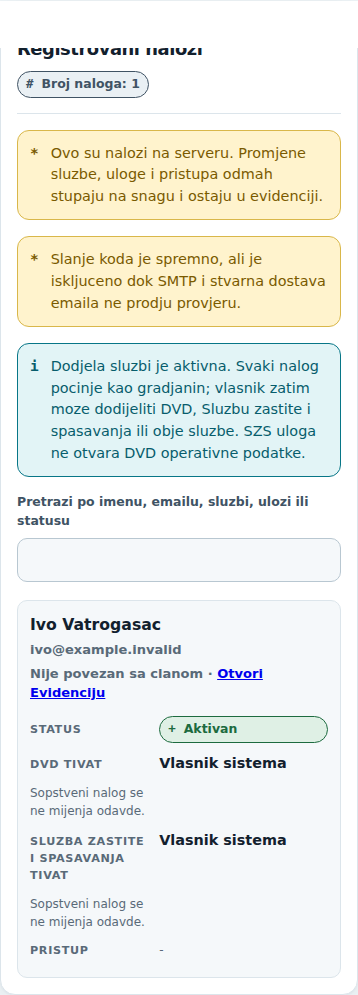
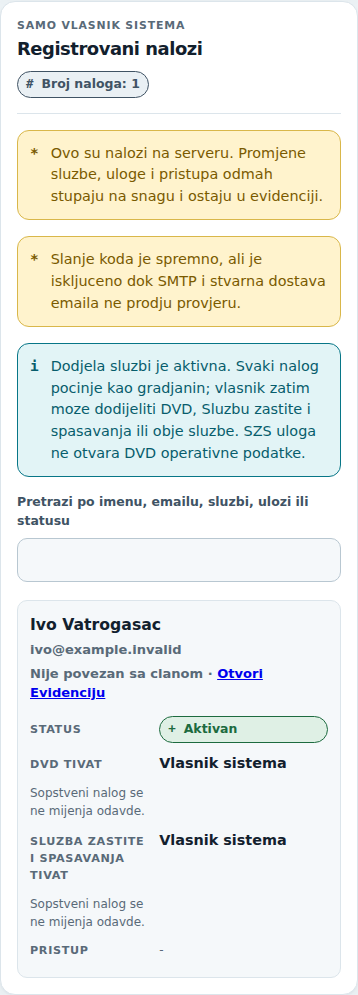
Capture the owner Accounts panel whole, heading included (review #74 re-review)
The re-review found the only remaining issue: the owner Accounts screenshot began
halfway through the "Registrovani nalozi" heading. The panel is taller than an
844px phone and sits under a sticky masthead, so `scrollIntoViewIfNeeded()` +
element screenshot clipped its top under that fixed bar.

Capture it the way the reviewer suggested: hide the fixed chrome (the sticky
masthead and the bottom nav) and give the page a taller viewport at the SAME
390px phone width, so the whole directory - full heading and card top included -
is captured in one clean phone-width panel. A `toBeInViewport()` check on the
heading guards against the clip regressing. Only this screenshot and its spec
change; the other five images are byte-identical.

Claude-Session: https://claude.ai/code/session_01RQBcnBwKoSZU8NsR5ytEuJ

Changed region(s): [[0.0, 0.0, 0.5223, 0.0623], [0.9832, 0.0, 1.0, 0.0312], [0.5223, 0.0312, 0.5531, 0.0623]]

diff --git a/e2e/p6-shape-screenshots.spec.ts b/e2e/p6-shape-screenshots.spec.ts
@@ -102,12 +102,17 @@ test.describe('@screenshots P6 account shapes (mobile)', () => {
     const cells = page.locator('.account-service-cell');
     await expect(cells).toHaveCount(2);
     await expect(cells.nth(1)).toContainText('Vlasnik sistema');
-    // The directory is below the fold; capture the panel itself so the columns
-    // are shown in full. Hide the fixed bottom nav for this one shot so it does
-    // not cut across the tall panel (it is not the subject here).
-    await page.addStyleTag({ content: '.station-rail { display: none !important; }' });
-    await page.locator('.account-directory').scrollIntoViewIfNeeded();
-    await page.locator('.account-directory').screenshot({ path: `${DIR}/1d-owner-nalozi-both-columns.png` });
+    // The directory panel is taller than a phone and sits under a sticky top bar
+    // and a fixed bottom nav. To capture it whole - heading and card top included,
+    // nothing clipped - hide that fixed chrome and give the page a taller viewport
+    // at the SAME 390px phone width, so the panel fits in one shot with no
+    // scroll-into-view clipping. This is an intentional phone-width scroll panel.
+    await page.addStyleTag({ content: '.station-rail, .masthead { display: none !important; }' });
+    await page.setViewportSize({ width: PHONE.width, height: 2200 });
+    const directory = page.locator('.account-directory');
+    await directory.scrollIntoViewIfNeeded();
+    await expect(page.getByRole('heading', { name: 'Registrovani nalozi' })).toBeInViewport();
+    await directory.screenshot({ path: `${DIR}/1d-owner-nalozi-both-columns.png` });
   });
 
   test('owner - a member-only screen says so, not a blank', async ({ page }) => {
